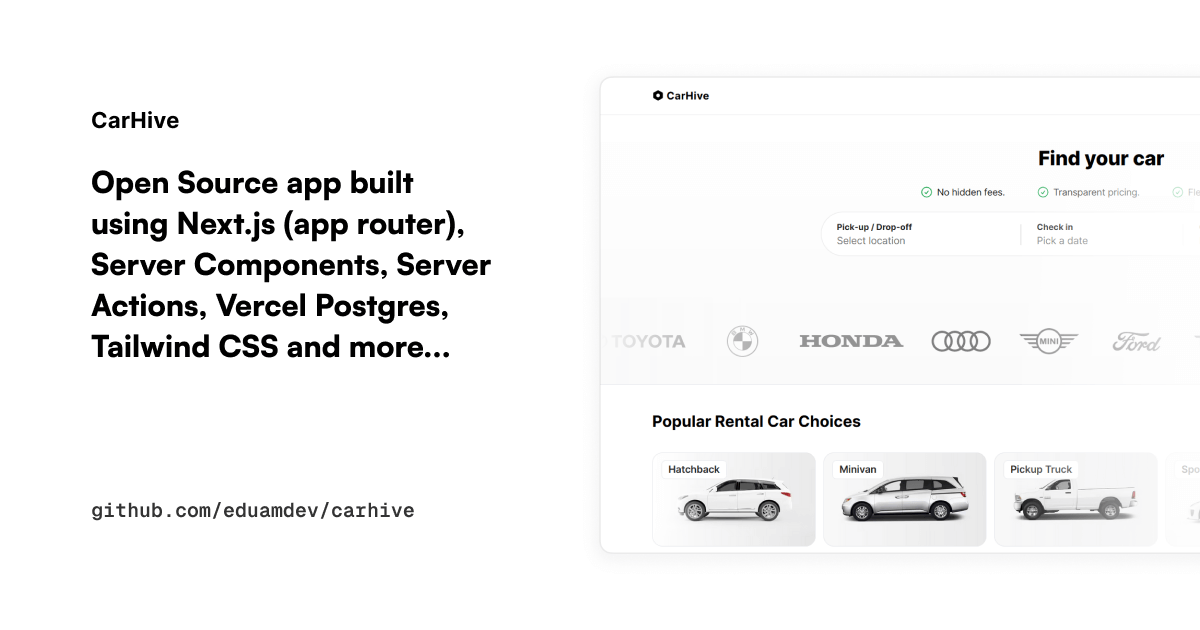
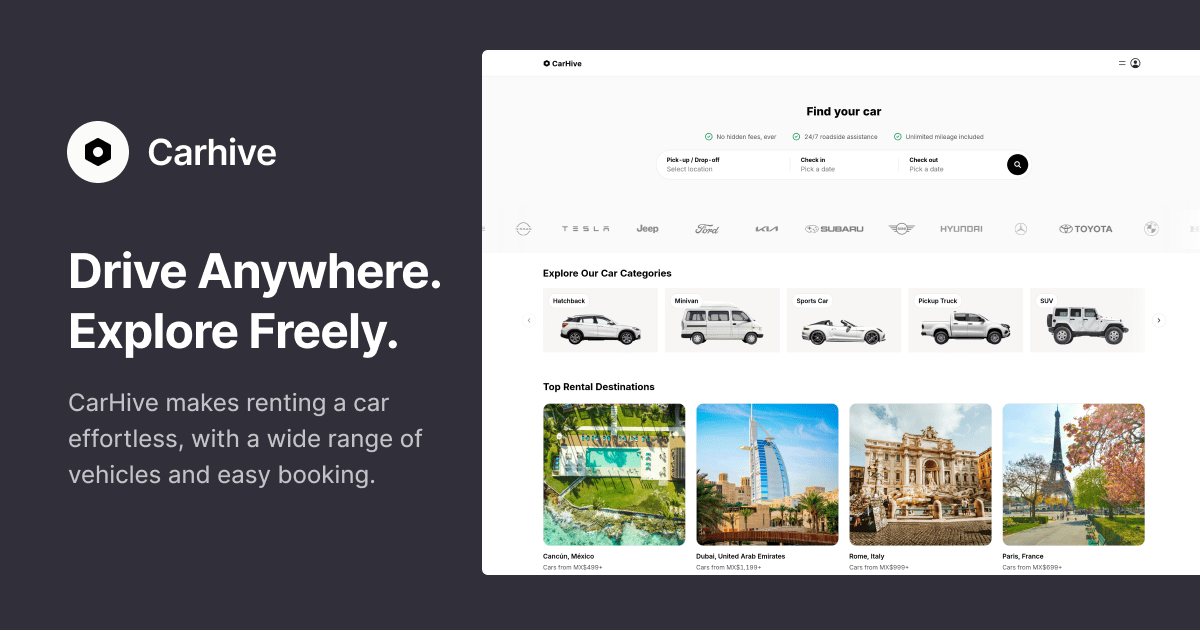
update og and readme images

diff --git a/README.md b/README.md
@@ -5,7 +5,7 @@ A car rental website built with **Next.js (App Router)**.
 > **Warning**
 > This app is a work in progress.
 
-![opengraph-image](https://github.com/eduamdev/car-rental-react/assets/35645733/f6c831fc-3992-4972-9c31-2c2964a55b56)
+![carhive](https://github.com/user-attachments/assets/5e4cdffe-dcd0-44ee-957d-66fdb82b47ee)
 
 ## Features
 
